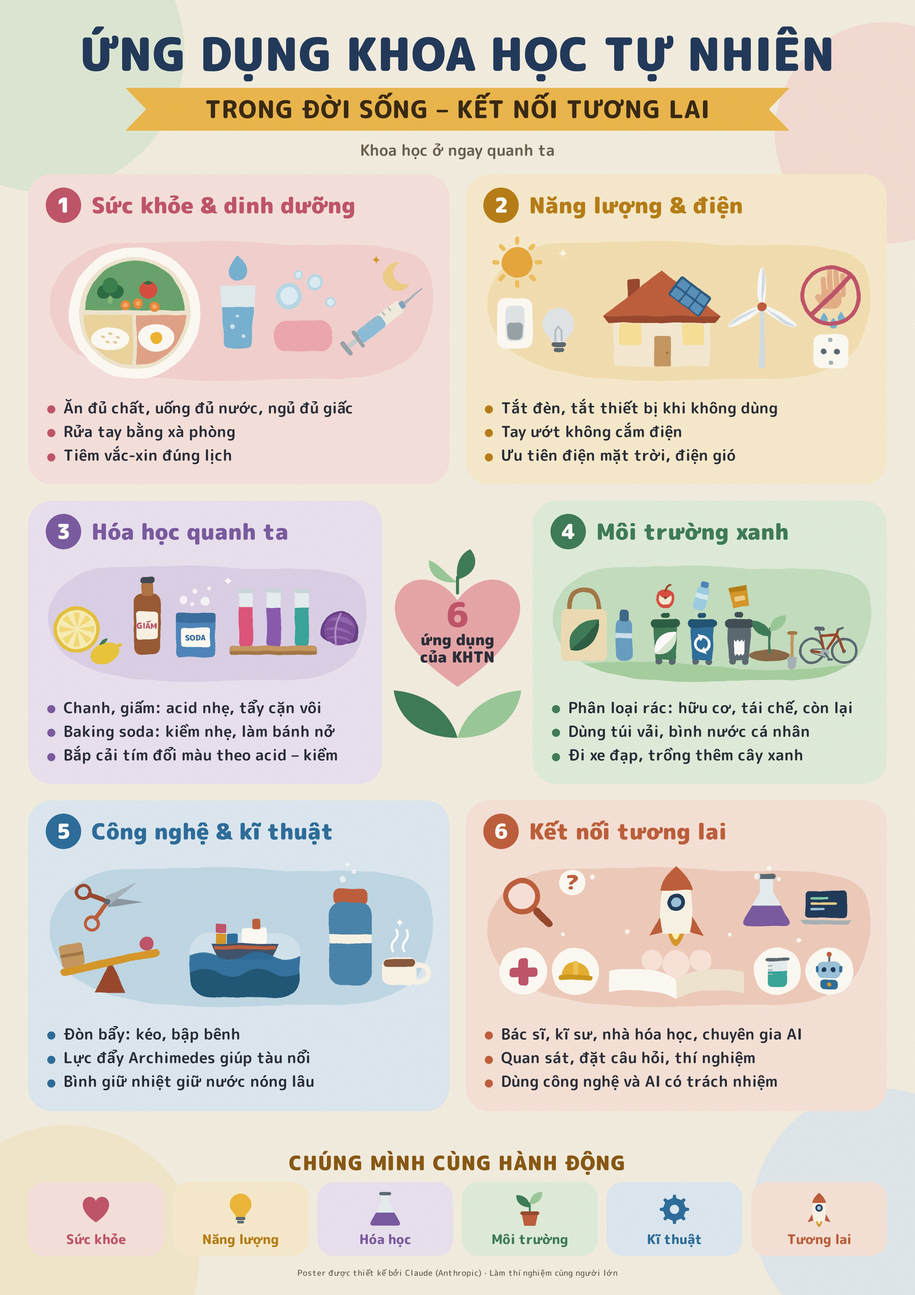
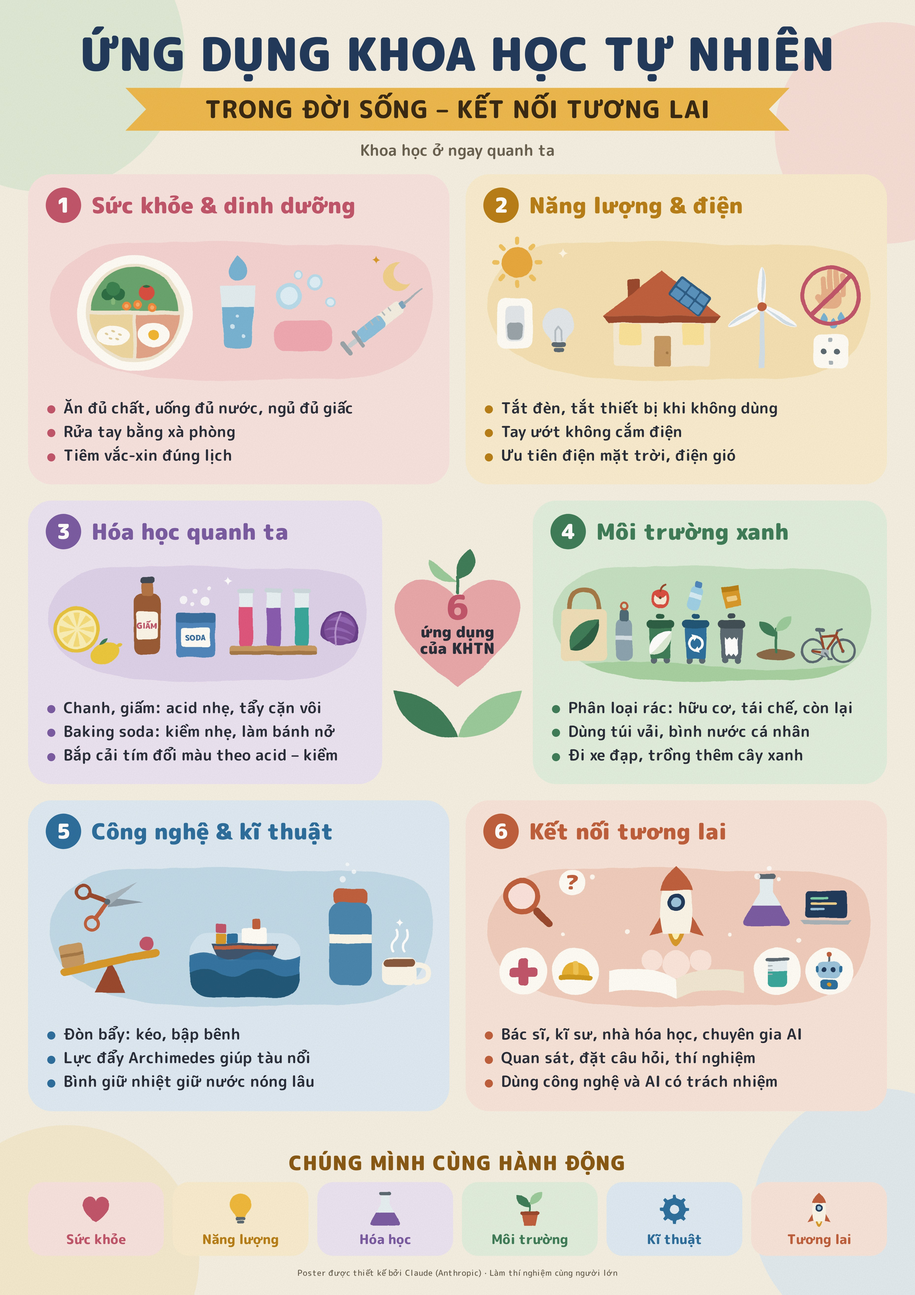
Poster tối giản: sửa theo lượt kiểm tra thứ hai
- Thẻ 4 thưa hơn (bỏ xẻng, bình nước cá nhân bằng thép khác chai nhựa, biểu tượng thùng rác lớn hơn).
- Đĩa ăn thẻ 1 nằm gọn trong nền; chữ trong trái tim dời lên.
- Trái tim và dải biểu tượng cuối trang có mép thủ công như các tranh khác (bớt cảm giác nhựa).

Claude-Session: https://claude.ai/code/session_01TrzHmDARenU8tDfD1GxZC2

Changed region(s): [[0.6548, 0.4363, 0.9043, 0.5298], [0.0624, 0.187, 0.2183, 0.3117], [0.4677, 0.4675, 0.5613, 0.5298]]

diff --git a/poster-khtn8-toi-gian/art.js b/poster-khtn8-toi-gian/art.js
@@ -76,8 +76,7 @@ const saplingG = pot => `${rect(-1.8, -16, 3.6, 22, 1.8, M.grn)}
 const beakerG = liq => `${path('M-18 -24H18V18Q18 28 8 28H-8Q-18 28 -18 18Z', '#e7f0f3')}${path('M-18 -2H18V18Q18 28 8 28H-8Q-18 28 -18 18Z', liq)}${rect(-22, -27, 44, 6, 3, M.gray)}${[-14, -6, 2].map(y => rect(-18, y, 9, 2.4, 1, '#a9b3b8')).join('')}`;
 /* cây non đang được trồng xuống đất, có xẻng */
 const plantG = () => `${ell(0, 24, 30, 9, '#8b6a4a')}${rect(-1.8, -18, 3.6, 40, 1.8, M.grn)}
-  ${path('M0 -4C-20 -4 -28 -18 -26 -28C-10 -28 0 -18 0 -4Z', M.grn)}${path('M0 -12C18 -12 26 -26 24 -36C8 -36 0 -26 0 -12Z', M.grnL)}
-  ${rect(31, -10, 5, 38, 2.5, M.wood)}${rect(26, -12, 15, 5, 2.5, M.woodD)}${path('M26 26H41L39 42Q33.5 48 28 42Z', M.grayL)}`;
+  ${path('M0 -4C-20 -4 -28 -18 -26 -28C-10 -28 0 -18 0 -4Z', M.grn)}${path('M0 -12C18 -12 26 -26 24 -36C8 -36 0 -26 0 -12Z', M.grnL)}`;
 
 /* thùng rác có bánh xe: tách rõ với cốc nước */
 const binG = (c, cD, glyph) => `${circ(-9, 32, 4.6, M.gray)}${circ(9, 32, 4.6, M.gray)}${rect(-6, -35, 12, 7, 3.5, cD)}
@@ -93,7 +92,7 @@ const recycleG = () => {
   };
   return arrow(-80, 70) + arrow(100, 250);
 };
-const chipBagG = () => path('M-7 -2L-4.5 1L-2 -2L0.5 1L3 -2L5.5 1L7 -2V17L4.5 20L2 17L-0.5 20L-3 17L-5.5 20L-7 17Z', '#fff', 'transform="translate(0 4)"');
+const chipBagG = () => path('M-7 -2L-4.5 1L-2 -2L0.5 1L3 -2L5.5 1L7 -2V17L4.5 20L2 17L-0.5 20L-3 17L-5.5 20L-7 17Z', '#fff', 'transform="translate(0 1) scale(1.25)"');
 
 /* cái kéo: hai tay đòn bắt chéo ở chốt, tay cầm gắn liền lưỡi */
 const scissorsG = () => `
@@ -138,6 +137,7 @@ const bikeG = () => `${ring(-30, 0, 24, 19.5, M.gray)}${ring(30, 0, 24, 19.5, M.
 function scene1() {
   const cx = 124, cy = 106;
   return `${blob(M.roseL, .45)}
+  <g transform="translate(124 106) scale(.88) translate(-124 -106)">
   ${circ(cx, cy, 86, M.white)}${circ(cx, cy, 73, '#f1e8d3')}
   ${sector(cx, cy, 65, 180, 360, '#6aa56e', 3.5)}${sector(cx, cy, 65, 90, 180, '#efd7a1', 3.5)}${sector(cx, cy, 65, 0, 90, '#e4a58a', 3.5)}
   ${T(92, 78, 1, 0, `${rect(-3, 4, 6, 12, 3, '#86b97b')}${circ(-8, 0, 9, '#2f6e44')}${circ(8, 0, 9, '#2f6e44')}${circ(0, -8, 10, '#3b8250')}`)}
@@ -145,6 +145,7 @@ function scene1() {
   ${[[112, 96], [128, 94], [150, 98]].map(([x, y]) => circ(x, y, 6.5, '#f08a3c') + circ(x, y, 3, '#f6b06c')).join('')}
   ${ell(92, 140, 25, 15, M.white)}${[[82, 137], [92, 133], [102, 138], [88, 144], [98, 145]].map(([x, y]) => ell(x, y, 3, 1.6, '#e3cf9d', 20)).join('')}
   ${ell(152, 138, 24, 18, M.white)}${circ(152, 138, 8, '#f2b632')}
+  </g>
   <!-- cốc nước -->
   ${path('M236 70H282L277 146Q276.5 152 271 152H247Q241.5 152 241 146Z', '#e3eef2')}
   ${path('M238.4 98H279.6L277 146Q276.5 152 271 152H247Q241.5 152 241 146Z', '#79b3d4')}
@@ -214,17 +215,17 @@ function scene4() {
   <!-- túi vải + bình nước -->
   ${bar('M38 84Q38 50 62 50Q86 50 86 84', M.woodD, 7)}
   ${rect(26, 80, 72, 82, 8, '#efdfb8')}${T(62, 122, .9, 0, leafG(M.grn, M.grnD))}
-  ${rect(112, 96, 26, 66, 10, '#6aa0c4')}${rect(118, 82, 14, 18, 4, '#3f6a8c')}${rect(112, 118, 26, 8, 0, '#cfe3ef')}
+  ${rect(112, 96, 26, 66, 10, '#8da4af')}${rect(118, 82, 14, 18, 4, '#4f6a77')}${ring(125, 76, 7, 3.6, M.ter)}${rect(112, 122, 26, 7, 0, '#d6e0e5')}
   <!-- 3 thùng rác có bánh xe + rác tương ứng -->
-  ${T(190, 126, 1.15, 0, binG(M.grn, M.grnD, T(0, 8, .58, 0, leafG('#fff', '#dcebd5'))))}
-  ${T(248, 126, 1.15, 0, binG(M.blu, M.bluD, recycleG()))}
-  ${T(306, 126, 1.15, 0, binG(M.gray, '#434f56', chipBagG()))}
-  ${T(190, 60, 1, 0, path('M-12 -6C-18 6 -10 20 0 18C10 20 18 6 12 -6C6 -12 -6 -12 -12 -6Z', '#d9503f') + path('M-9 -2C-12 6 -8 14 0 12C8 14 12 6 9 -2C4 4 -4 4 -9 -2Z', '#f6ecd8') + circ(0, 2, 2, '#6b4a2a') + bar('M0 -8Q2 -16 8 -18', M.terD, 3))}
-  ${T(248, 58, 1, 14, rect(-10, -14, 20, 38, 8, '#9fd0e6') + rect(-6, -22, 12, 10, 3, '#4f87bd') + rect(-10, -2, 20, 8, 0, '#d7ecf5'))}
-  ${T(306, 60, 1, -10, path('M-14 -16L14 -16L12 18L-12 18Z', M.mus) + path('M-14 -16L14 -16L13 -8L-13 -8Z', M.musD) + rect(-8, 0, 16, 8, 2, M.musL))}
+  ${T(182, 126, 1.1, 0, binG(M.grn, M.grnD, T(0, 8, .62, 0, leafG('#fff', '#dcebd5'))))}
+  ${T(238, 126, 1.1, 0, binG(M.blu, M.bluD, recycleG()))}
+  ${T(294, 126, 1.1, 0, binG(M.gray, '#434f56', chipBagG()))}
+  ${T(182, 60, 1, 0, path('M-12 -6C-18 6 -10 20 0 18C10 20 18 6 12 -6C6 -12 -6 -12 -12 -6Z', '#d9503f') + path('M-9 -2C-12 6 -8 14 0 12C8 14 12 6 9 -2C4 4 -4 4 -9 -2Z', '#f6ecd8') + circ(0, 2, 2, '#6b4a2a') + bar('M0 -8Q2 -16 8 -18', M.terD, 3))}
+  ${T(238, 58, 1, 14, rect(-10, -14, 20, 38, 8, '#9fd0e6') + rect(-6, -22, 12, 10, 3, '#4f87bd') + rect(-10, -2, 20, 8, 0, '#d7ecf5'))}
+  ${T(294, 60, 1, -10, path('M-14 -16L14 -16L12 18L-12 18Z', M.mus) + path('M-14 -16L14 -16L13 -8L-13 -8Z', M.musD) + rect(-8, 0, 16, 8, 2, M.musL))}
   <!-- trồng thêm cây + xe đạp -->
-  ${T(354, 128, 1.05, 0, plantG())}
-  ${T(446, 146, .85, 0, bikeG())}`;
+  ${T(364, 128, 1.0, 0, plantG())}
+  ${T(446, 146, .8, 0, bikeG())}`;
 }
 
 /* ---------- 5 · Công nghệ & kĩ thuật ---------- */
@@ -272,26 +273,30 @@ function scene6() {
 /* ---------- trái tim giữa trang ---------- */
 function heartCenter() {
   return `<svg viewBox="0 0 250 330" xmlns="http://www.w3.org/2000/svg" font-family="M PLUS Rounded 1c, sans-serif">
+    <g filter="url(#rough)">
     <path d="M125 62C121 40 128 20 146 12C160 28 158 52 125 62Z" fill="${M.grn}"/>
     <path d="M125 66C108 56 96 36 78 30C76 50 92 70 125 66Z" fill="${M.grnL}"/>
     <path d="M125 84V58" stroke="${M.grn}" stroke-width="5" stroke-linecap="round"/>
     <path d="M125 238C28 172 6 112 32 78C56 50 100 60 125 96C150 60 194 50 218 78C244 112 222 172 125 238Z" fill="#e9a8ab"/>
-    <g text-anchor="middle" fill="${M.ink}" font-weight="900">
-      <text x="125" y="140" font-size="56" fill="${M.rose}">6</text>
-      <text x="125" y="170" font-size="25">ứng dụng</text>
-      <text x="125" y="198" font-size="25">của KHTN</text>
     </g>
+    <g text-anchor="middle" fill="${M.ink}" font-weight="900">
+      <text x="125" y="128" font-size="56" fill="${M.rose}">6</text>
+      <text x="125" y="157" font-size="25">ứng dụng</text>
+      <text x="125" y="184" font-size="25">của KHTN</text>
+    </g>
+    <g filter="url(#rough)">
     <path d="M125 322C70 322 28 296 20 244C70 248 112 276 125 322Z" fill="${M.grn}"/>
     <path d="M125 322C180 322 222 296 230 244C180 248 138 276 125 322Z" fill="${M.grnL}"/>
+    </g>
   </svg>`;
 }
 
 /* ---------- biểu tượng cho dải cam kết ---------- */
 const pledgeIcons = {
-  health: `<svg viewBox="-34 -34 68 68">${heartG(M.rose)}</svg>`,
-  energy: `<svg viewBox="-34 -34 68 68">${path('M-9 14C-9 7 -20 3 -20 -9A20 20 0 1 1 20 -9C20 3 9 7 9 14Z', '#efb93a')}${rect(-9, 14, 18, 6, 3, M.gray)}${rect(-6.5, 21, 13, 5, 2.5, M.gray)}</svg>`,
-  chem: `<svg viewBox="-34 -34 68 68">${flaskG(M.plum)}</svg>`,
-  eco: `<svg viewBox="-34 -38 68 72">${saplingG(M.ter)}</svg>`,
-  tech: `<svg viewBox="-34 -34 68 68">${gearG(M.blu)}</svg>`,
-  future: `<svg viewBox="-34 -40 68 80">${rocketG()}</svg>`
+  health: `<svg viewBox="-34 -34 68 68"><g filter="url(#rough-sm)">${heartG(M.rose)}</g></svg>`,
+  energy: `<svg viewBox="-34 -34 68 68"><g filter="url(#rough-sm)">${path('M-9 14C-9 7 -20 3 -20 -9A20 20 0 1 1 20 -9C20 3 9 7 9 14Z', '#efb93a')}${rect(-9, 14, 18, 6, 3, M.gray)}${rect(-6.5, 21, 13, 5, 2.5, M.gray)}</g></svg>`,
+  chem: `<svg viewBox="-34 -34 68 68"><g filter="url(#rough-sm)">${flaskG(M.plum)}</g></svg>`,
+  eco: `<svg viewBox="-34 -38 68 72"><g filter="url(#rough-sm)">${saplingG(M.ter)}</g></svg>`,
+  tech: `<svg viewBox="-34 -34 68 68"><g filter="url(#rough-sm)">${gearG(M.blu)}</g></svg>`,
+  future: `<svg viewBox="-34 -40 68 80"><g filter="url(#rough-sm)">${rocketG()}</g></svg>`
 };

diff --git a/poster-khtn8-toi-gian/poster.html b/poster-khtn8-toi-gian/poster.html
@@ -58,6 +58,10 @@ li::before{content:"";position:absolute;left:2px;top:.46em;width:11px;height:11p
     <feTurbulence type="fractalNoise" baseFrequency="0.03" numOctaves="2" seed="7" result="n"/>
     <feDisplacementMap in="SourceGraphic" in2="n" scale="3.4" xChannelSelector="R" yChannelSelector="G"/>
   </filter>
+  <filter id="rough-sm" x="-6%" y="-6%" width="112%" height="112%">
+    <feTurbulence type="fractalNoise" baseFrequency="0.11" numOctaves="2" seed="4" result="n"/>
+    <feDisplacementMap in="SourceGraphic" in2="n" scale="1.5" xChannelSelector="R" yChannelSelector="G"/>
+  </filter>
 </svg>
 
 <div class="page">
